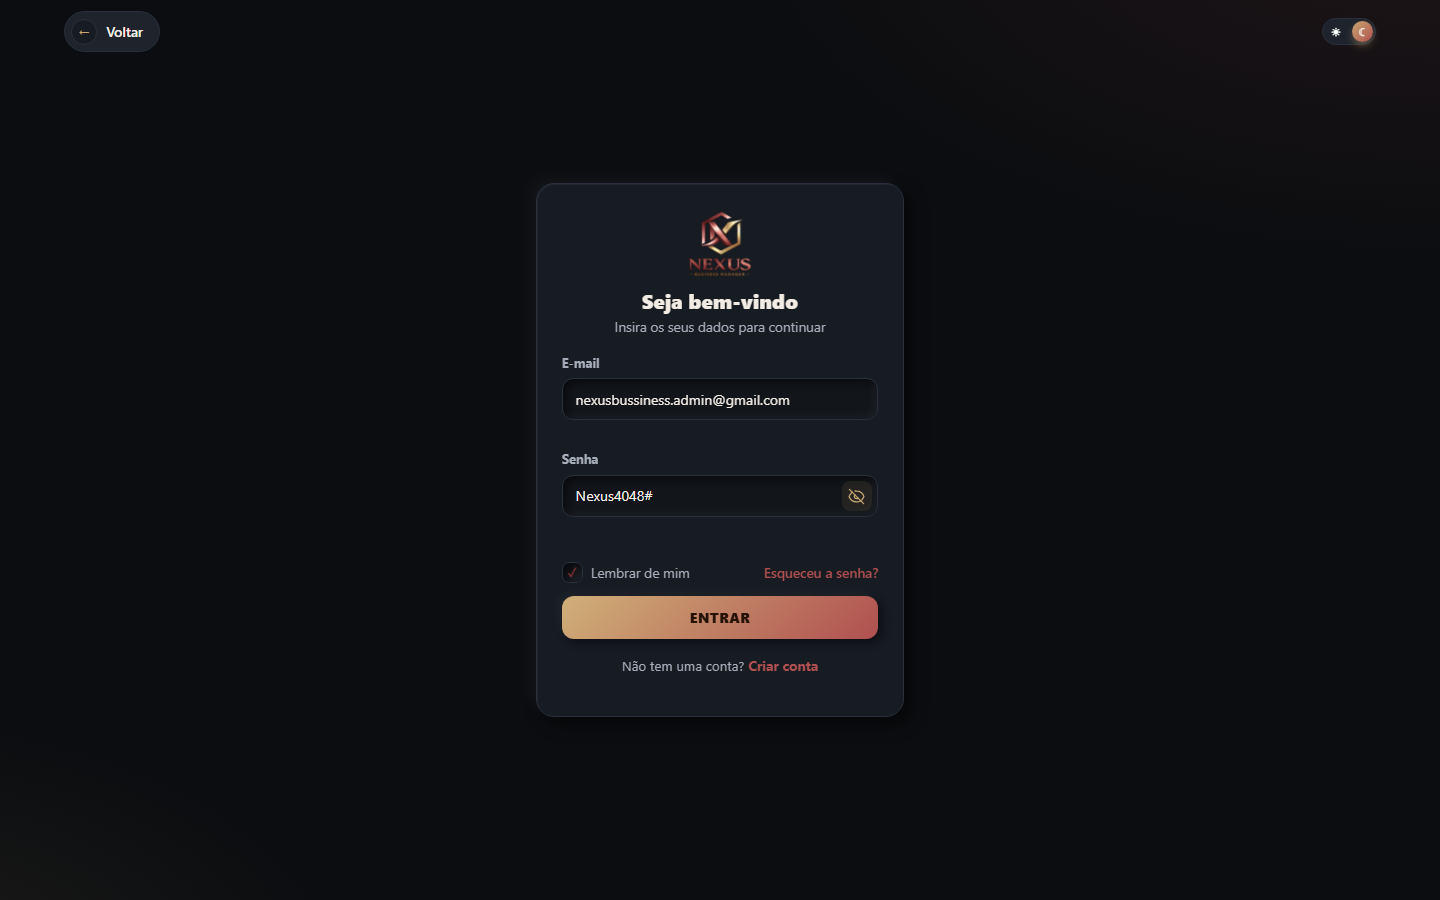
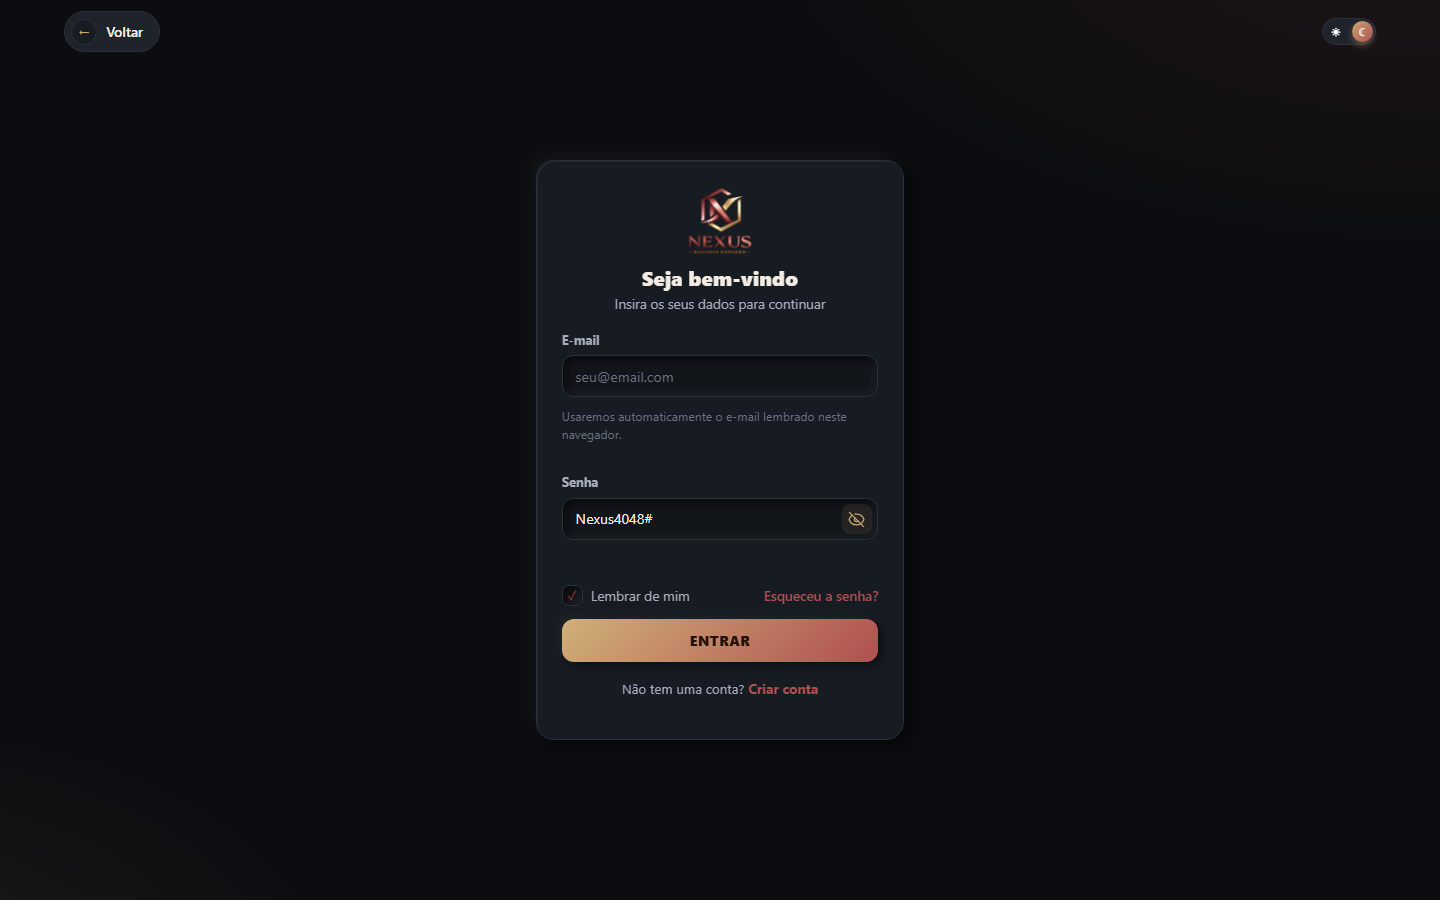
Lembrar de mim agora guarda o e-mail sem deixar visível
O pedido foi claro: o navegador pode guardar o e-mail para facilitar o
próximo acesso, mas ele não pode permanecer exibido no campo. O login
volta sempre vazio com o placeholder genérico e uma dica discreta; ao
digitar só a senha e entrar, usamos o e-mail lembrado em silêncio.
Também desativamos o autocomplete do navegador no campo e incluímos o
script verify-remember.cjs, que prova o fluxo ponta a ponta.

Changed region(s): [[0.375, 0.6222, 0.625, 0.8089], [0.375, 0.3733, 0.5938, 0.5911], [0.4375, 0.2178, 0.5625, 0.3733]]

diff --git a/apps/web/src/pages/Login.tsx b/apps/web/src/pages/Login.tsx
@@ -19,17 +19,19 @@ export function Login() {
   const [email, setEmail] = useState("");
   const [password, setPassword] = useState("");
   const [remember, setRemember] = useState(false);
+  // Regra de UX: o e-mail lembrado fica APENAS no navegador, nunca visível no campo.
+  const [rememberedEmail, setRememberedEmail] = useState<string | null>(null);
   const [errors, setErrors] = useState<{ email?: string | null; password?: string | null }>({});
   const [submitting, setSubmitting] = useState(false);
   const [success, setSuccess] = useState(false);
   const [error, setError] = useState<string | null>(null);
 
-  // "Lembrar de mim": pré-preenche o e-mail salvo localmente (nunca a senha).
+  // "Lembrar de mim": guarda o e-mail localmente sem pré-preencher o campo (nunca a senha).
   useEffect(() => {
     try {
       const salvo = localStorage.getItem(REMEMBER_KEY);
       if (salvo) {
-        setEmail(salvo);
+        setRememberedEmail(salvo);
         setRemember(true);
       }
     } catch {
@@ -37,8 +39,14 @@ export function Login() {
     }
   }, []);
 
+  // E-mail efetivo: o digitado tem prioridade; se o campo estiver vazio usamos o lembrado.
+  const effectiveEmail = email.trim() || rememberedEmail || "";
+
   function validate(): boolean {
-    const errs = { email: validateEmail(email), password: validateRequired(password, "senha") };
+    const errs = {
+      email: effectiveEmail ? null : validateEmail(email),
+      password: validateRequired(password, "senha"),
+    };
     setErrors(errs);
     return !errs.email && !errs.password;
   }
@@ -49,9 +57,9 @@ export function Login() {
     if (!validate()) return;
     setSubmitting(true);
     try {
-      await login(email.trim(), password);
+      await login(effectiveEmail, password);
       try {
-        if (remember) localStorage.setItem(REMEMBER_KEY, email.trim());
+        if (remember) localStorage.setItem(REMEMBER_KEY, effectiveEmail);
         else localStorage.removeItem(REMEMBER_KEY);
       } catch {
         /* noop */
@@ -91,13 +99,16 @@ export function Login() {
             <input
               type="email"
               className={"neu-input" + (errors.email ? " is-error" : "")}
-              autoComplete="email"
+              autoComplete="off"
               placeholder="seu@email.com"
               value={email}
               onChange={(e) => { setEmail(e.target.value); if (errors.email) setErrors((x) => ({ ...x, email: null })); }}
-              onBlur={() => setErrors((x) => ({ ...x, email: validateEmail(email) }))}
+              onBlur={() => setErrors((x) => ({ ...x, email: email.trim() || rememberedEmail ? null : validateEmail(email) }))}
             />
             {errors.email && <span className="field-error">{errors.email}</span>}
+            {!errors.email && rememberedEmail && !email.trim() ? (
+              <span className="auth-hint">Usaremos automaticamente o e-mail lembrado neste navegador.</span>
+            ) : null}
           </div>
 
           <div className="field">

diff --git a/CHANGELOG.md b/CHANGELOG.md
@@ -19,6 +19,7 @@ Formato baseado em [Keep a Changelog](https://keepachangelog.com/pt-BR/1.1.0/), 
 - Marca na sidebar administrativa agora exibe o nome completo "Nexus Business Manager" em uma linha, com o degradê cobre-ouro da landing.
 - Cartões de autenticação padronizados no mesmo tamanho (largura, tipografia e botões) para coerência entre login, cadastro e recuperação.
 - Logo das telas de autenticação ampliada 16% (62px → 72px) nas três páginas, mantendo a harmonia visual.
+- **Regra de privacidade do "Lembrar de mim"**: o e-mail fica gravado no navegador para facilitar o acesso, mas nunca é exibido no campo — ele volta vazio com placeholder genérico e uma dica discreta; ao entrar apenas com a senha, o e-mail lembrado é usado em silêncio (prova automatizada em `tools/verify-remember.cjs`).
 - Alternador de tema perfeitamente centrado no cabeçalho (thumb simétrico no trilho, ícones sol/lua alinhados ao centro vertical), sem alterar cores, tamanho ou animação.
 
 ### Corrigido
